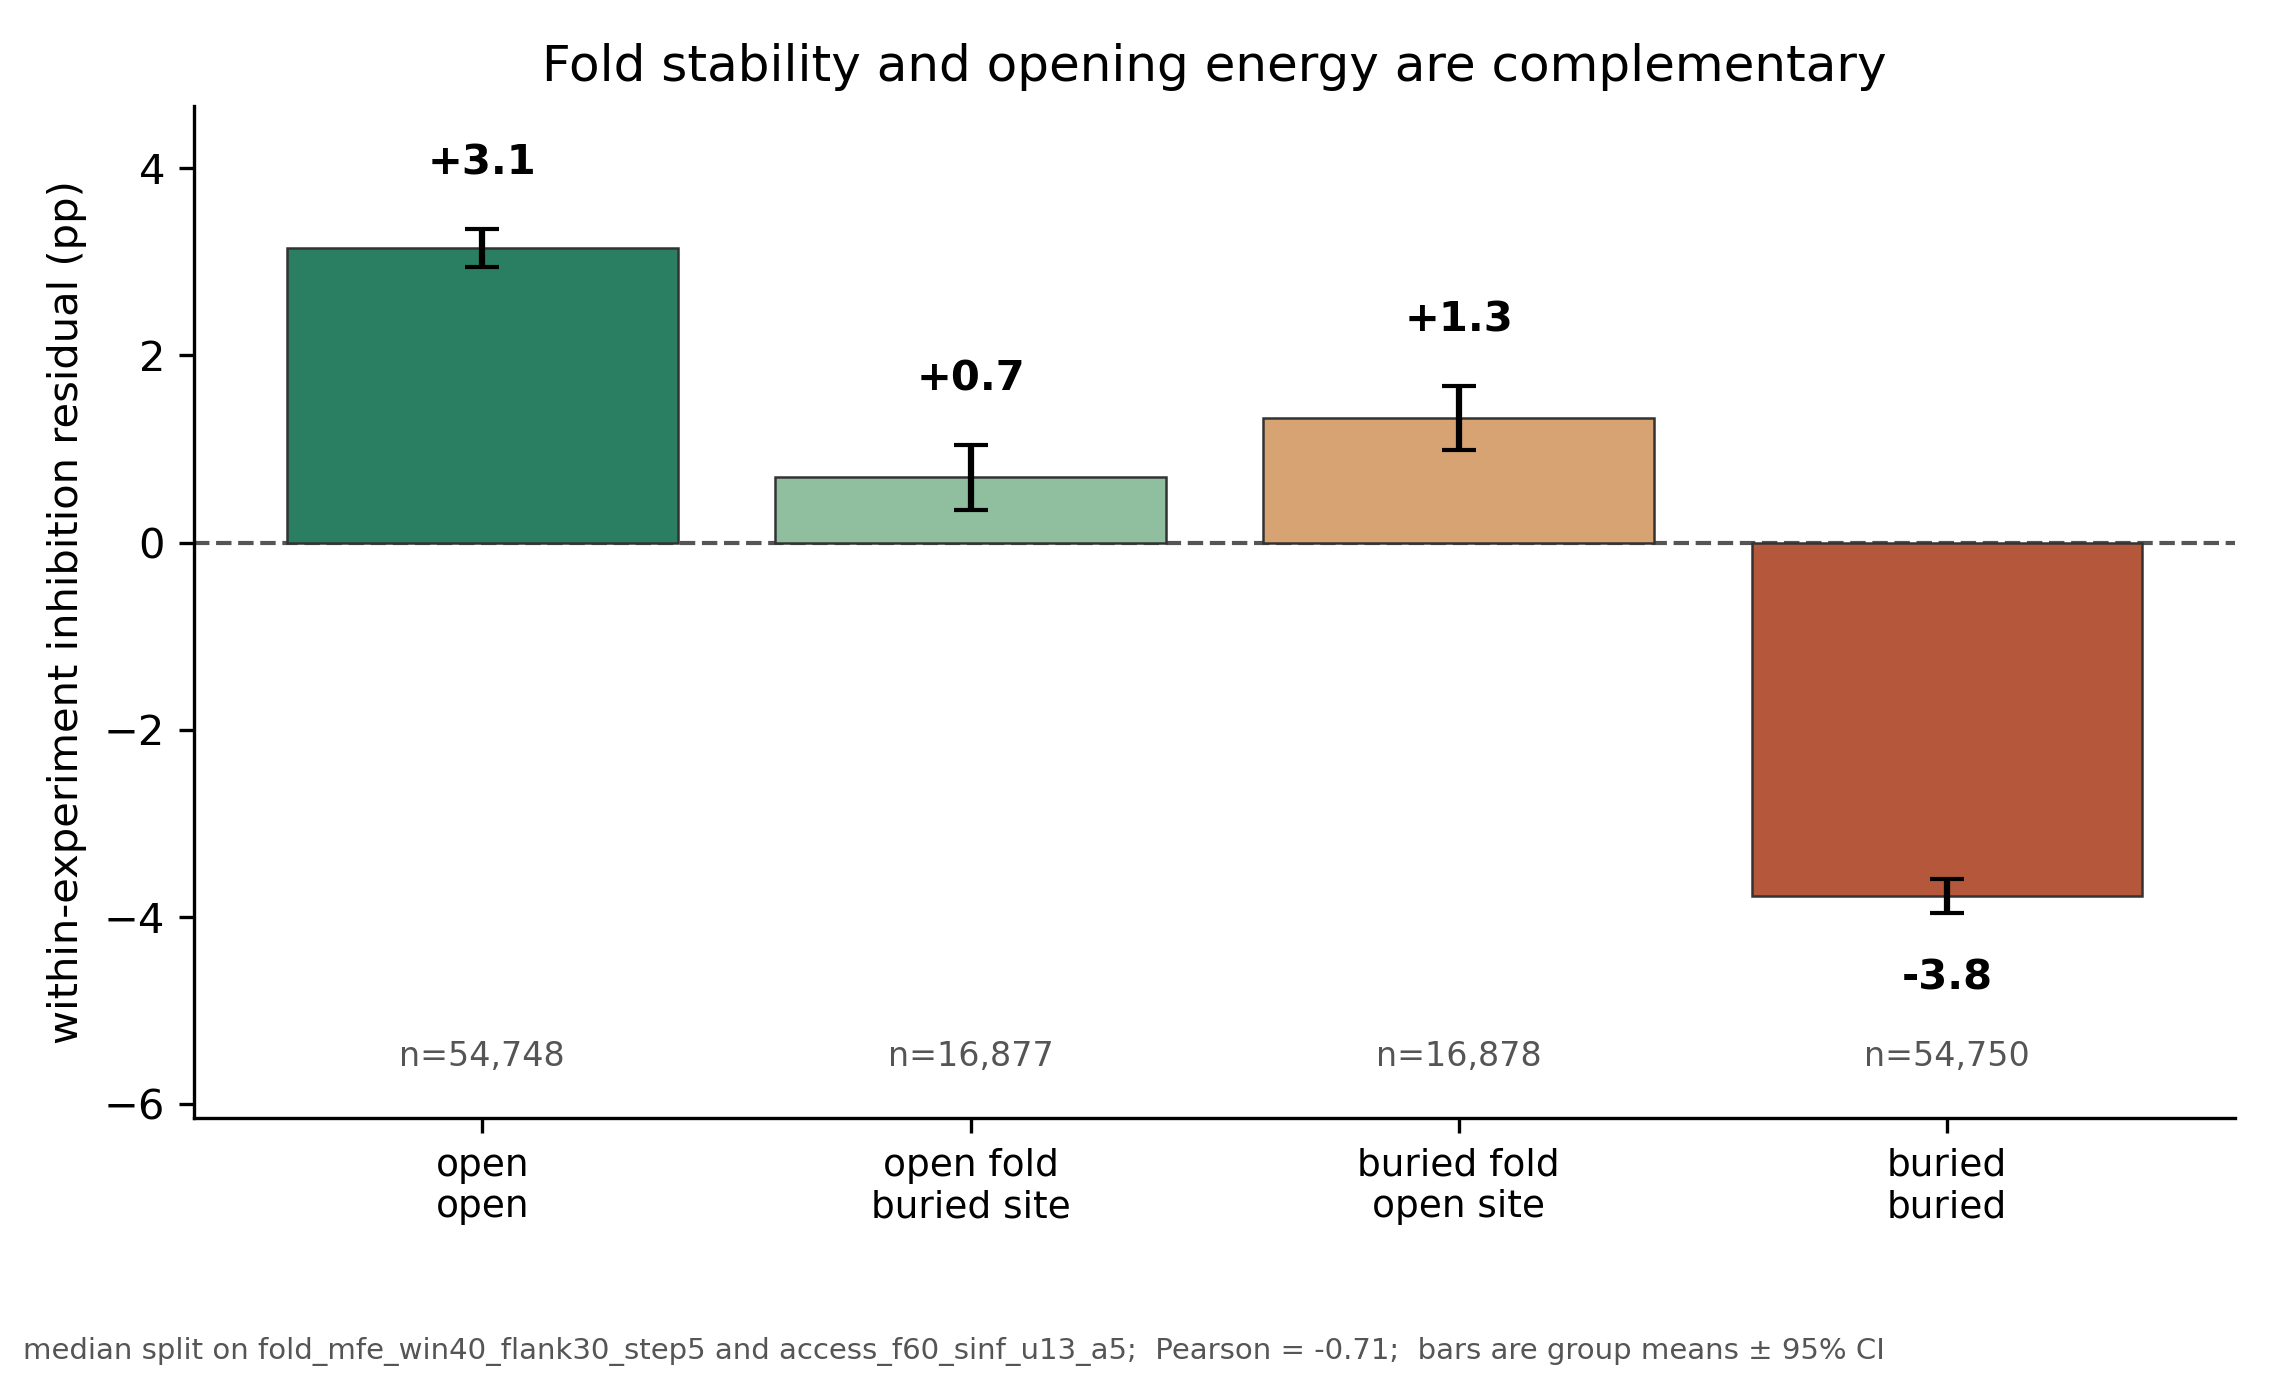
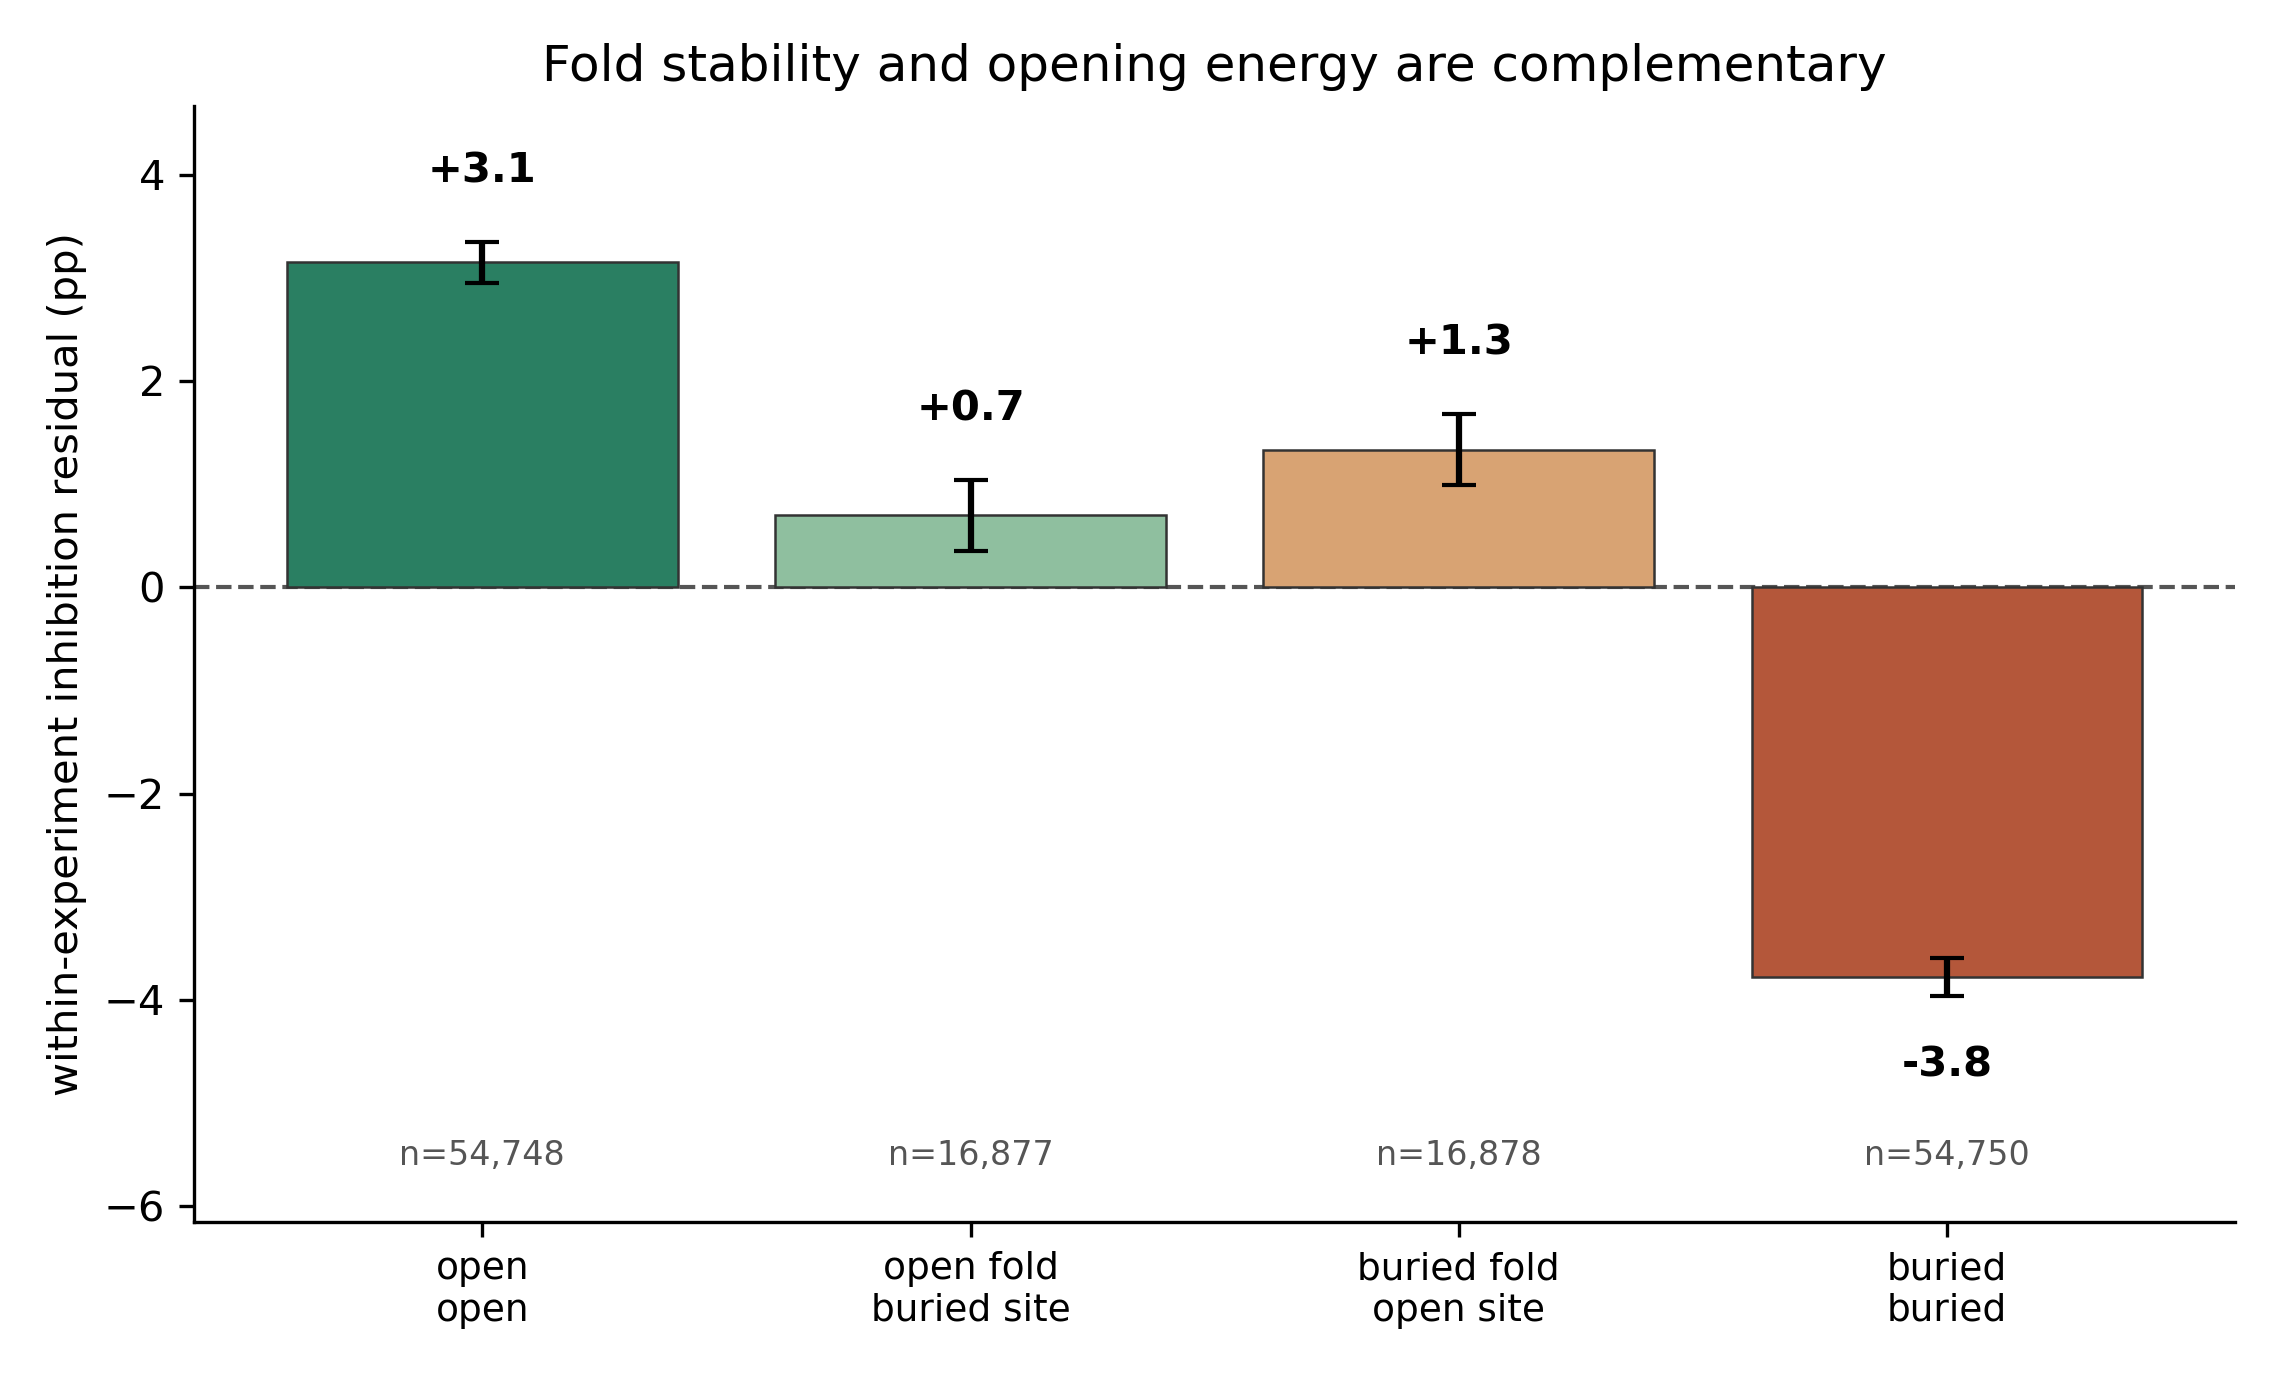
graphs: drop the provenance footer from the figure
The feature names and correlation belong in the paper's caption, not on the
plot. Removing the line leaves draw() with three parameters it no longer reads,
so they come off the signature too.

diff --git a/notebooks/graphs/fold_vs_accessibility.py b/notebooks/graphs/fold_vs_accessibility.py
@@ -109,7 +109,7 @@ def group_stats(df, labels):
     return rows
 
 
-def draw(rows, fold_column, access_column, pearson, out_path):
+def draw(rows, out_path):
     fig, ax = plt.subplots(figsize=(7.6, 4.6))
     x = np.arange(len(rows))
     means = np.array([r["mean"] for r in rows])
@@ -143,15 +143,7 @@ def draw(rows, fold_column, access_column, pearson, out_path):
     ax.set_title("Fold stability and opening energy are complementary", fontsize=12)
     ax.spines[["top", "right"]].set_visible(False)
 
-    fig.tight_layout(rect=(0, 0.075, 1, 1))
-    fig.text(
-        0.01,
-        0.015,
-        f"median split on {fold_column} and {access_column};  Pearson = {pearson:.2f};  "
-        f"bars are group means \u00b1 95% CI",
-        fontsize=7,
-        color="#555555",
-    )
+    fig.tight_layout()
     fig.savefig(out_path, dpi=300)
     print(f"\nwrote {out_path}")
 
@@ -206,7 +198,7 @@ def main():
             f"[{row['mean'] - row['ci']:+.2f}, {row['mean'] + row['ci']:+.2f}]"
         )
 
-    draw(rows, args.fold, args.access, pearson, args.out)
+    draw(rows, args.out)
 
 
 if __name__ == "__main__":
